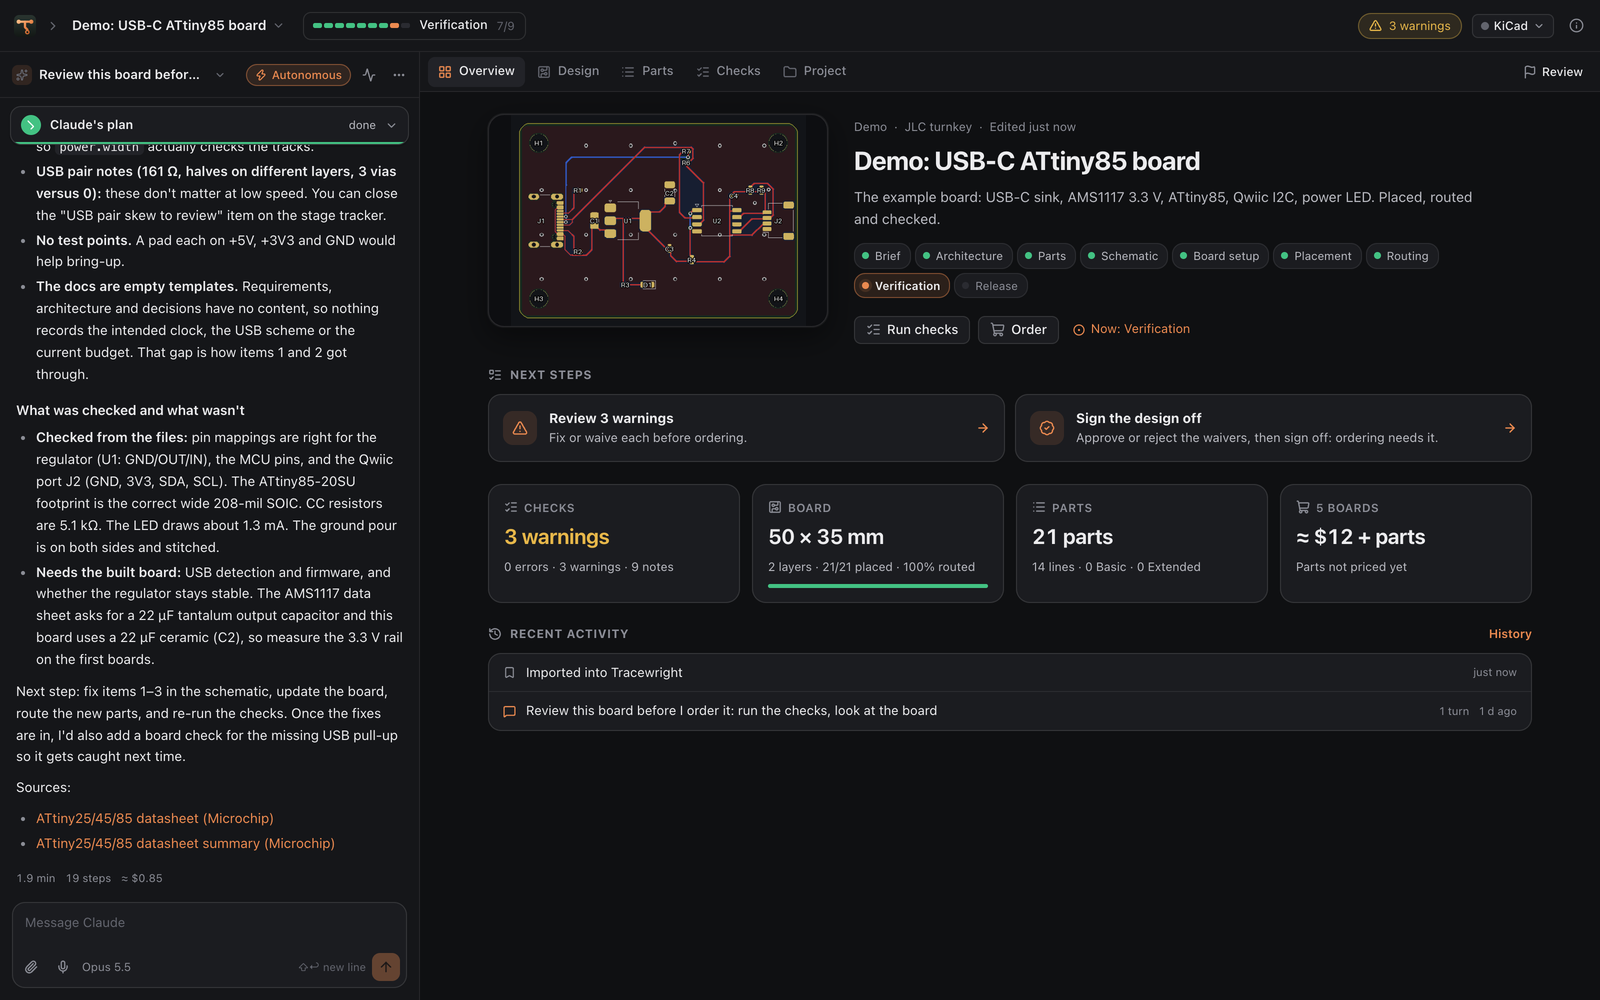
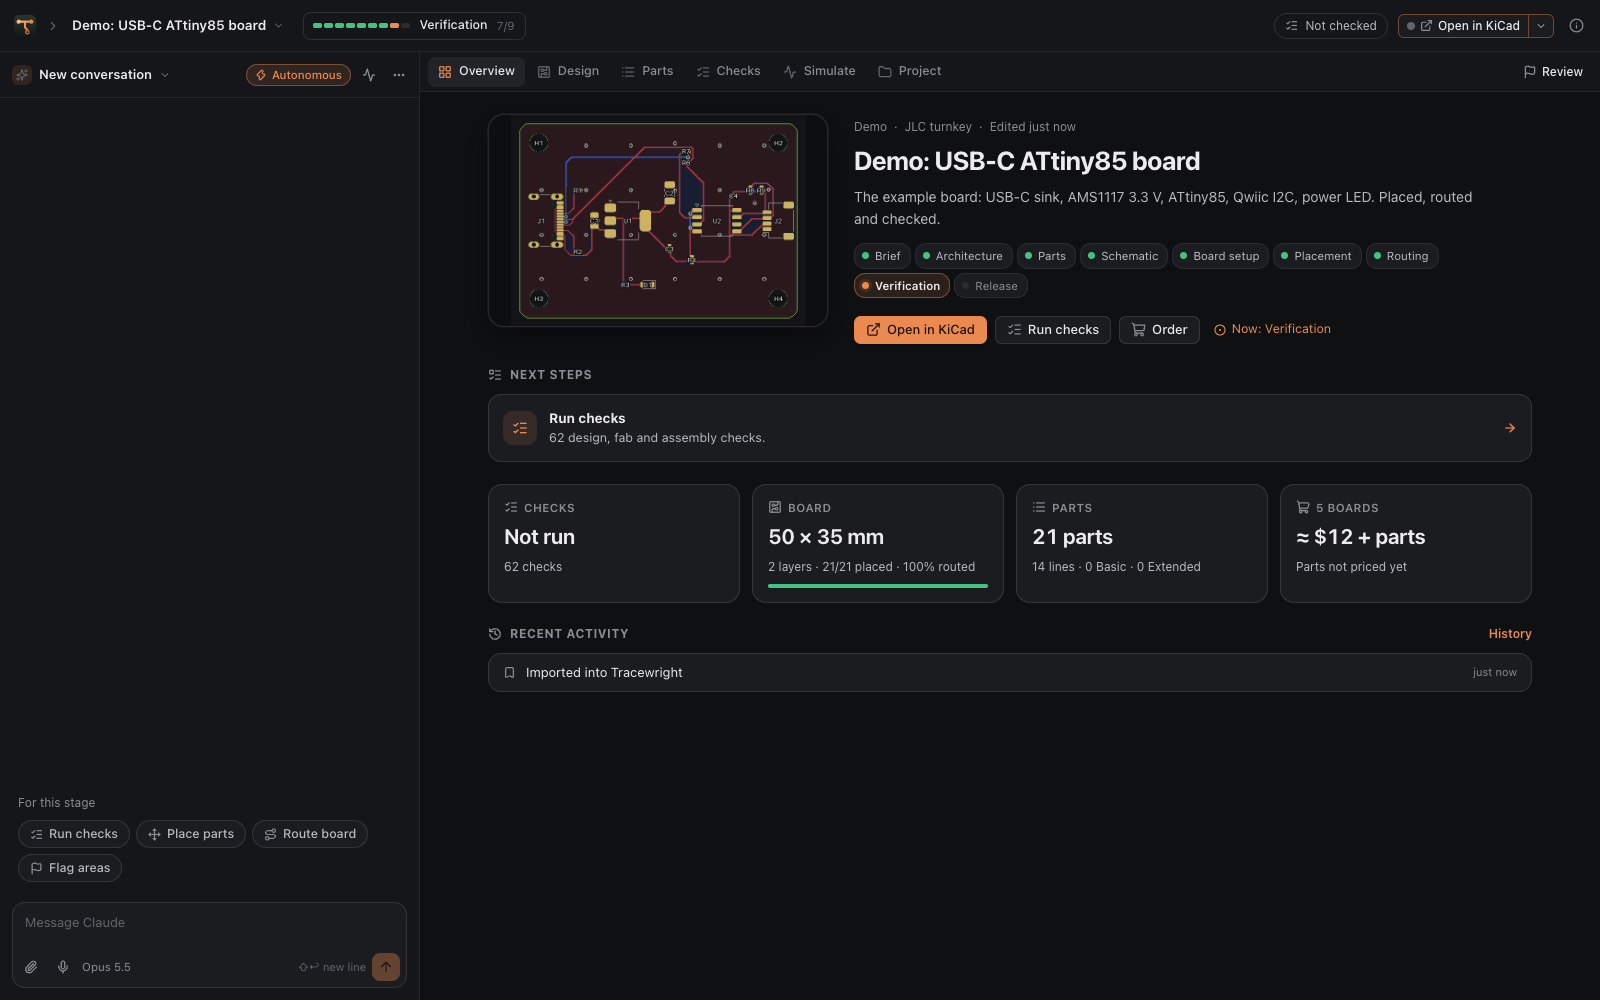
Tracewright 1.1.0
Simulate the board as laid out, a routing plan for every net, up to 12 layers
with HDI off by default, getting the board built (BOM health, test points,
drawings, panel, enclosure, blocks), two-layer schematic notes, placement with
reasons, a solved floorplan, the setup check, and the fixes from an end-to-end
run (see CHANGELOG.md).

The README's pictures are new, all of the demo board, taken by
tests/docs_shots.py: the routing plan, where tracks fit (on a copy with its
copper cleared, so there is something to route), the board's heat, a USB
line's edge at its own 4 ns, test points and a panel, a design note open
beside its part, the 3D view and the checks. The unused mission picture goes.

diff --git a/tests/docs_shots.py b/tests/docs_shots.py
@@ -2,15 +2,32 @@
 
     python3 tests/docs_shots.py [docs/images]
 
-overview, board (with its routing plan), space (where tracks fit), simulate (the board's heat), signal (a net's edge),
-make (getting it built), schematic (a design note open), checks. Only the demo board: no one's own designs."""
-import asyncio, os, sys, json
+overview, board (with its routing plan), simulate (the board's heat), signal (a net's edge), make (getting it built),
+schematic (a design note open), 3d, checks, then space (where tracks fit, on the copy with its copper cleared).
+Only the demo board: no one's own designs."""
+import asyncio, glob, os, sys, json
 
 sys.path.insert(0, os.path.dirname(os.path.abspath(__file__)))
 from ui_tests import Server, Ctx, BV  # noqa: E402
 from cdp import Chrome  # noqa: E402
 
 ROOT = os.path.dirname(os.path.dirname(os.path.abspath(__file__)))
+# design notes for the demo's copy (the fixture has none): the reasoning behind three of its parts, as Claude writes them
+DEMO_NOTES = [
+    {"id": "n1", "anchor": {"ref": "R4"}, "short": "Holds RESET high", "sheet": "mcu.kicad_sch", "by": "claude",
+     "why": "The ATtiny85's own reset pull-up is weak (30 to 60 kΩ), so noise on the line can reset it. 10 kΩ to "
+            "3.3 V holds it high and still lets an ISP programmer pull RESET low (Microchip AN2519, AVR hardware design "
+            "considerations)."},
+    {"id": "n2", "anchor": {"ref": "R8"}, "short": "SDA/SCL pull-ups: 4.7k to 3.3 V", "sheet": "mcu.kicad_sch", "by": "claude",
+     "why": "SDA and SCL are open-drain, so each needs a pull-up. The largest that still meets the rise time is "
+            "Rp = tr / (0.8473 × Cb) (I2C specification UM10204): with 4.7 kΩ, about 250 pF of bus at 100 kHz and 75 pF at "
+            "400 kHz, which a short Qwiic cable stays under. Boards on the cable may add their own pull-ups; in parallel "
+            "that stays fine down to about 1 kΩ (3 mA at 0.4 V)."},
+    {"id": "n3", "anchor": {"ref": "R1"}, "short": "Rd on CC1: asks the source for 5 V", "sheet": "power.kicad_sch", "by": "claude",
+     "why": "A USB-C sink shows itself with a 5.1 kΩ pull-down (Rd) on each CC pin; a C-to-C charger keeps VBUS off "
+            "until it sees one. Each CC pin needs its own, since the plug's orientation decides which one is used "
+            "(USB Type-C specification)."},
+]
 
 
 async def shoot(out):
@@ -24,7 +41,12 @@ async def shoot(out):
                           f"localStorage.setItem('tw.seenVersion', {json.dumps(version)}); localStorage.setItem('tw.updateSeen', '99'); "
                           "localStorage.setItem('tw.layers.collapsed', '0'); 1")
             t = Ctx(s, page, out)
-            calm = ("(() => { document.querySelectorAll('.toast, .vtip').forEach((e) => e.remove()); "
+            hw = os.path.dirname(glob.glob(os.path.join(s.ws, "*", "hardware", "*", "mcu.kicad_sch"))[0])
+            with open(os.path.join(hw, "design-notes.json"), "w") as f:
+                json.dump({"notes": DEMO_NOTES}, f, indent=1)
+            calm = ("(() => { document.querySelectorAll('.toast').forEach((e) => e.remove()); "
+                    "document.querySelectorAll('.vtip').forEach((e) => { e.style.display = 'none'; }); "
+                    "document.querySelectorAll('.tooltip.on').forEach((e) => e.classList.remove('on')); "
                     "const c = document.querySelector('.viewer canvas'); if (c && c.__view) { c.__view.anim = {}; c.__view.draw(); } return 1; })()")
 
             async def snap(name):
@@ -45,16 +67,6 @@ async def shoot(out):
             await page.js(f"{BV}.fit(false); 1")
             await snap("board")
 
-            await page.js(f"{BV}.setPanel('layers'); 1")
-            await page.js("[...document.querySelectorAll('.lrow')].find((r) => r.textContent.includes('Routing space')).click(); 1")
-            await page.wait("document.querySelector('.sp-legend')", 30)
-            await page.js(f"(() => {{ const b = {BV}, f = b.byRef.U2, p = f.pads.find((q) => String(q.n) === '1'); "
-                          f"const [px, py] = b.toScreen(p.x, p.y); b.whyAt(px, py, p.x, p.y); return 1; }})()")
-            await page.wait(f"{BV}.tip.style.display === 'block'", 15)
-            await asyncio.sleep(0.4)
-            await page.shot(os.path.join(out, "space.png"))
-            print("  space")
-            await page.js("[...document.querySelectorAll('.lrow')].find((r) => r.textContent.includes('Routing space')).click(); 1")
 
             await t.place("simulate")
             await page.wait("document.querySelector('.sm-tabs button[data-sim=heat]')", 20)
@@ -69,7 +81,7 @@ async def shoot(out):
             await page.js("document.querySelector('.sm-tabs button[data-sim=signal]').click(); 1")
             await page.wait("document.querySelector('.sm-run')", 10)
             await page.js("(() => { const s = document.querySelector('.sm-ctl select'); s.value = 'USB_D_P'; s.dispatchEvent(new Event('change')); "
-                          "const i = document.querySelectorAll('.sm-ctl input'); i[0].value = '0.3'; i[0].dispatchEvent(new Event('input')); return 1; })()")
+                          "return 1; })()")                # the edge from what the net is (USB: 4 ns)
             await page.js("document.querySelector('.sm-run').click(); 1")
             await page.wait("document.querySelector('.sm-svg svg')", 60)
             await snap("signal")
@@ -82,10 +94,24 @@ async def shoot(out):
             await snap("make")
 
             await t.place("design", "schematic")
-            await page.wait("document.querySelector('.sch-note')", 30)
+            sv = f"{BV}.ws.views.schematic"
+            await page.wait(f"{sv} && {sv}.sheets && {sv}.sheets.length > 0", 30)
+            await page.js(f"{sv}.showSheet({sv}.sheets.find((x) => x.file === 'mcu.kicad_sch').name_path); 1")
+            await page.wait("document.querySelectorAll('.sch-note').length >= 2", 30)
+            await page.js(f"(() => {{ const v = {sv}; let x0 = 1e9, y0 = 1e9, x1 = -1e9, y1 = -1e9; "      # the microcontroller's block
+                          f"for (const y of v.sheet().symbols || []) {{ const b = y.bbox; if (!b || !['U2', 'C4', 'R4', 'R6', 'R7'].includes(y.ref)) continue; "
+                          f"x0 = Math.min(x0, b[0]); y0 = Math.min(y0, b[1]); x1 = Math.max(x1, b[2]); y1 = Math.max(y1, b[3]); }} "
+                          f"v.setVB(x0 - 25, y0 - 30, x1 - x0 + 73, y1 - y0 + 52); return 1; }})()")     # room right of R4 for its note
+            await asyncio.sleep(0.6)
             await page.js("document.querySelector('.sch-note').dispatchEvent(new MouseEvent('click', {bubbles: true})); 1")
             await asyncio.sleep(1.0)
             await snap("schematic")
+
+            await t.place("design", "3d")
+            await page.wait("(() => { const l = document.querySelector('.v3d .v3d-load'); "
+                            "return !!(l && getComputedStyle(l).display === 'none' && document.querySelector('.v3d canvas')); })()", 240)
+            await asyncio.sleep(2.0)
+            await snap("3d")
 
             await t.place("checks", "checks")
             await page.wait("document.querySelector('.view.on')", 10)
@@ -94,6 +120,25 @@ async def shoot(out):
                             "&& !document.querySelector('.checks-head .vt').textContent.includes('Not checked')", 300)
             await asyncio.sleep(2.0)
             await snap("checks")
+
+            # where tracks fit is a picture of a board still to route: the copy's copper cleared in the board editor
+            r = s.post(f"api/projects/{t.pid}/board/edit", {"ops": [{"op": "delete", "kinds": ["track", "via", "zone"], "all": True}],
+                                                          "label": "Clear the copper"})
+            assert r.get("ok", True) and not r.get("error"), r
+            await t.place("design", "board")
+            await page.wait(f"!!({BV} && {BV}.data) && !({BV}.data.tracks || []).length", 30)
+            await page.js(f"{BV}.setPanel('layers'); {BV}.fit(false); 1")
+            await page.js("[...document.querySelectorAll('.lrow')].find((r) => r.textContent.includes('Routing space')).click(); 1")
+            await page.wait("document.querySelector('.sp-legend')", 60)
+            await asyncio.sleep(1.0)
+            await page.js(calm)
+            await page.js(f"(() => {{ const b = {BV}, f = b.byRef.J1, a = f.pads.find((q) => String(q.n) === 'A6'), "
+                          f"c = f.pads.find((q) => String(q.n) === 'A7'), x = (a.x + c.x) / 2, y = (a.y + c.y) / 2; "
+                          f"const [px, py] = b.toScreen(x, y); b.whyAt(px, py, x, y); return 1; }})()")
+            await page.wait(f"{BV}.tip.style.display === 'block' && {BV}.tip.isConnected && {BV}.tip.textContent.length > 10", 30)
+            await asyncio.sleep(0.5)
+            await page.shot(os.path.join(out, "space.png"))
+            print("  space")
     finally:
         s.stop()
 

diff --git a/CHANGELOG.md b/CHANGELOG.md
@@ -3,6 +3,35 @@
 All notable changes to Tracewright. The format follows [Keep a Changelog](https://keepachangelog.com/en/1.1.0/),
 and versions follow [Semantic Versioning](https://semver.org/).
 
+## [1.1.0] - 2026-10-07
+
+Simulate the board as it is laid out, plan who routes each net, take on dense boards, and get the board built.
+
+### Added
+- **Simulate.** A new place for the board as laid out: the voltage drop and current density in a supply's copper (with the spots that would warm up), the board's temperature from the parts that get warm, where a fast net's return current runs and the loop it opens round a gap, a net's impedance along its route and its edge at the far end (simulated in ngspice, with the series resistor that would tame it), what it picks up from its neighbours, a rail's impedance against its target, and circuit blocks from the schematic in ngspice.
+- **Routing plan.** Every net is routed by the router, routed first with its rules (pairs, crystals, clocks, switch nodes, heavy currents), or left for you (RF, current sense, high voltage), each with its reason, in Board › Routing. Move a net to another mode, keep it to chosen layers, and pick the router's preset (Balanced, Dense, Few vias, Shortest). After a route, each net shows its length, its vias and anything off its plan.
+- **Placement with reasons.** Pick a part to see why it is where it is. Keep parts near a pin, together, apart, at an edge or on a side; Claude places around what you set, in stages (connectors, main chips, their support parts, the rest), and can stop after each for your OK. The placement gets a score.
+- **Up to 12 layers, and HDI.** Stack-ups up to 12 layers. HDI (vias in pads, laser microvias, blind vias) stays off unless you turn it on; Claude offers it when a part needs it. Each BGA gets an escape plan (tracks between its balls, whether a via fits between four, how many signal layers its rings need) and a fan-out: dog-bones, vias in the pads, or stacked microvias down to its ground plane.
+- **Where tracks fit.** The routing space shows the crowded parts of the board in words, and hovering any point says what keeps a track out of it. Regions give an area its own rules: keep tracks out, no vias, finer tracks, more spacing.
+- **Make.** Parts › Make gets the board built: the BOM's health (can every line be bought for the boards you order), a test-point plan, a fab drawing (outline, stack-up, drill table, fab notes) and assembly drawings, a V-scored panel with rails and fiducials, whether the board fits its enclosure (with the openings its connectors need, and an OpenSCAD box to start from), and your blocks: circuits that worked once, saved to use again.
+- **Schematic notes in two layers.** On the sheet, one short line beside the part it explains; the reasoning and its sources go in the design notes, shown when you hover the marker by the part. The schematic checks flag long notes, notes far from their part, support parts drawn away from their pin, and connector pins left unnamed. Designs with several sheets are hierarchical unless you choose flat at the start.
+- **The setup says when a choice cannot work.** In the guided start, a board too small for its parts, too few layers for a BGA, or a part taller than the limit is said plainly, with what would work.
+- **A solved floorplan.** The floorplan comes out solved: blocks inside the board and clear of each other, connectors on their edges without overlapping, long headers along their edge. Turn an edge connector in place (R), or press Solve.
+- **Help.** How the app is laid out, and Check the setup (KiCad, its Python and libraries, ngspice, Claude, the projects folder), also on the projects page and in Settings › About.
+- **Calculator.** Tracks between pads: how many fit, whether a via fits between four balls, rings out per layer.
+
+### Changed
+- **Block diagrams** lay themselves out by trying arrangements and keeping the clearest: supplies above what they feed, fewer crossing lines.
+- **Open in KiCad** sits at the top right of every project.
+- **Settings** has a Design section: new projects' schematic style, router preset, test-point side and fab.
+- **The board's side panels** keep their colours in the light theme.
+
+### Fixed
+- Track ends that overlap without meeting exactly now count as joined, so current paths and simulations follow the copper as KiCad does.
+- Vias that span some of the layers (blind, buried, micro) are read as such.
+- The router's compiled core is built again when the copy on disk was made for another machine (an Intel Mac, Rosetta or Linux), instead of stopping the route.
+- Long release notes in the update dialog end at a line instead of mid-word.
+
 ## [1.0.1] - 2026-10-04
 
 ### Fixed

diff --git a/README.md b/README.md
@@ -15,7 +15,7 @@ live in KiCad, then sends it to the fab.</p>
   <img alt="License" src="https://img.shields.io/badge/license-MIT-43c283">
 </p>
 
-<p align="center"><img src="docs/images/overview.png" width="900" alt="A project overview in Tracewright, with Claude's review of the demo board"></p>
+<p align="center"><img src="docs/images/overview.png" width="900" alt="A project overview in Tracewright: the demo board, its stages and what to do next"></p>
 
 ## Features
 
@@ -60,7 +60,7 @@ live in KiCad, then sends it to the fab.</p>
   <img src="docs/images/signal.png" width="440" alt="A net's edge and impedance, simulated">
 </p>
 <p align="center">
-  <img src="docs/images/make.png" width="440" alt="Getting the board built: BOM health, test points, panel">
+  <img src="docs/images/make.png" width="440" alt="Getting the board built: test points, drawings and a panel">
   <img src="docs/images/schematic.png" width="440" alt="A schematic with its design notes">
 </p>
 <p align="center">

diff --git a/tracewright/CHANGELOG.md b/tracewright/CHANGELOG.md
@@ -29,6 +29,8 @@ Simulate the board as it is laid out, plan who routes each net, take on dense bo
 ### Fixed
 - Track ends that overlap without meeting exactly now count as joined, so current paths and simulations follow the copper as KiCad does.
 - Vias that span some of the layers (blind, buried, micro) are read as such.
+- The router's compiled core is built again when the copy on disk was made for another machine (an Intel Mac, Rosetta or Linux), instead of stopping the route.
+- Long release notes in the update dialog end at a line instead of mid-word.
 
 ## [1.0.1] - 2026-10-04
 
